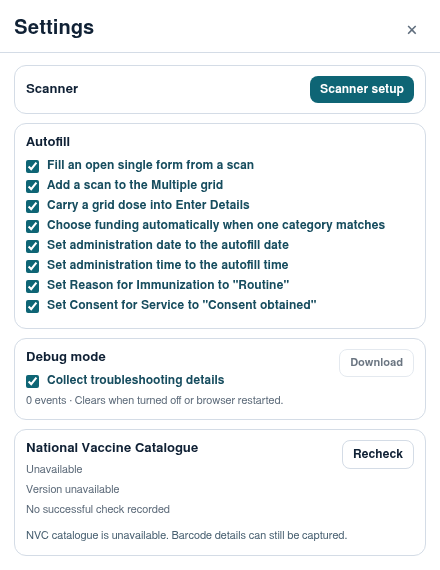
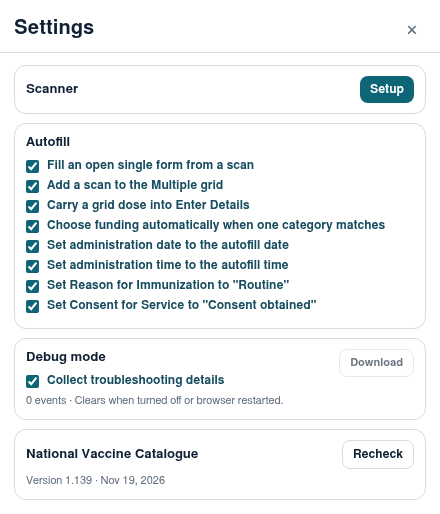
docs: match the settings image and activity guide to the popup

diff --git a/docs/privacy-assessment.md b/docs/privacy-assessment.md
@@ -63,7 +63,7 @@ Local records are kept in the browser profile. VaxLink adds no encryption of its
 
 ### What staff see in Local Activity
 
-The popup compares **Today** and **All time** on this installation. **Days tracked** counts days with recorded activity.
+The popup compares **Today** and **All time** on this installation.
 
 | Group             | What the numbers mean                                                                                                                                                    |
 | ----------------- | ------------------------------------------------------------------------------------------------------------------------------------------------------------------------ |
@@ -74,7 +74,7 @@ The popup compares **Today** and **All time** on this installation. **Days track
 
 ### What the activity export includes
 
-The downloaded JSON file contains all retained days and combined totals. Its date range is independent of which column staff were reading. A generated device ID, any saved workstation label, the number of days, and first-use, last-event and export times can connect several exports to one station.
+The downloaded JSON file contains all retained days, the number of days with activity and combined totals. Its date range is independent of which column staff were reading. A generated device ID, any saved workstation label and first-use, last-event and export times can connect several exports to one station.
 
 | Daily output            | Details in the file                                                                                                                                                                                                                      |
 | ----------------------- | ---------------------------------------------------------------------------------------------------------------------------------------------------------------------------------------------------------------------------------------- |

diff --git a/docs/workstation-setup.md b/docs/workstation-setup.md
@@ -23,7 +23,7 @@ Designate one browser and one profile for scanning on each clinic workstation. E
 
 Open **Settings** using the gear in the popup. Choose **Setup** in the Scanner section.
 
-![VaxLink Settings with the Scanner section above the autofill preferences](images/settings.png)
+![VaxLink Settings with Setup in the Scanner section above Autofill](images/settings.png)
 
 Choose **Connect scanner** to open the browser’s device chooser.
 
